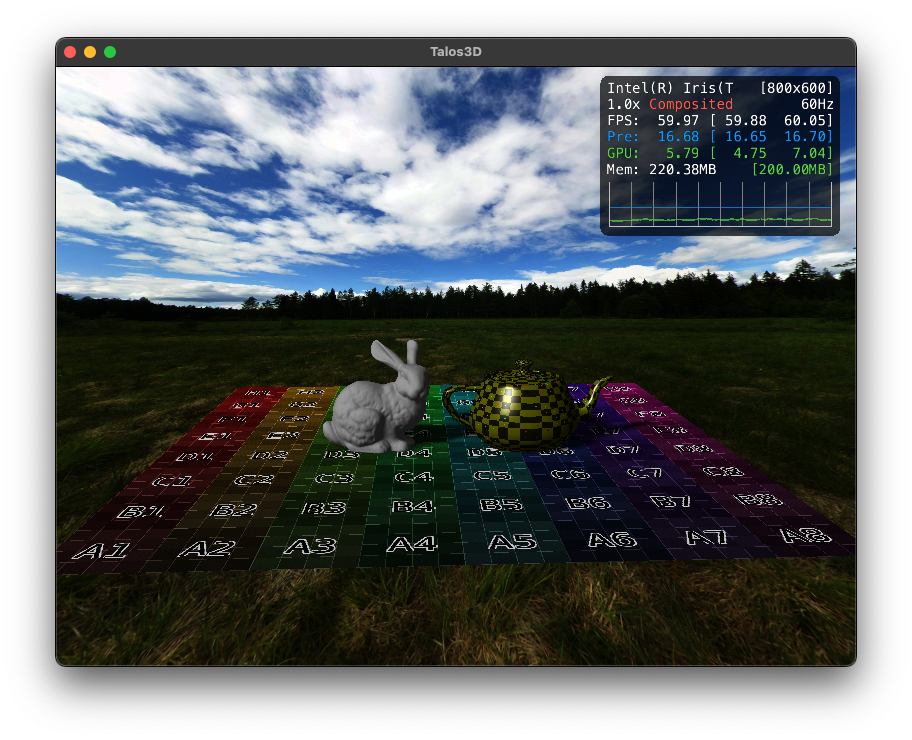
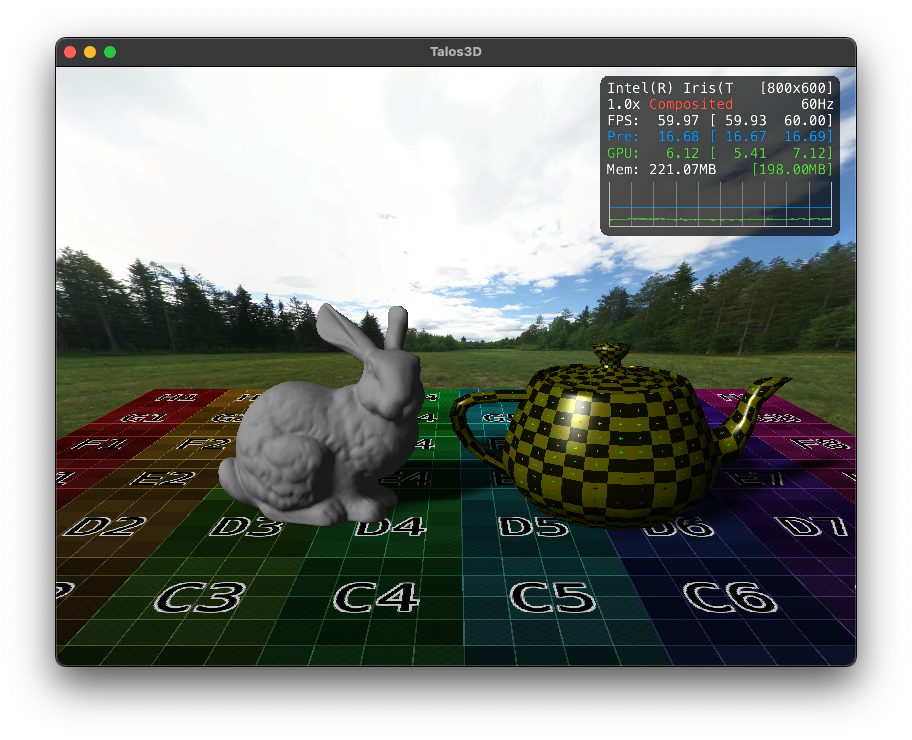
Update README and current state capture

diff --git a/README.md b/README.md
@@ -7,21 +7,22 @@ A Metal toy engine written on Swift with the intention of learning Metal and imp
 
 ## Planned "stepping-stone" features
 - [x] Importing of .obj files
-- [ ] Blinn-Phong lighting model
+- [x] Blinn-Phong lighting model
 - [x] FPS camera
 - [x] Forward rendering
 - [x] Simple shadow maps
-- [ ] Skybox
+- [x] Skybox
 
 ## Planned features
-- [ ] Bindless model
-- [ ] Importing of .fbx files
-- [ ] Simple GUI
-- [ ] Physically-Based Rendering
-- [ ] Sample Distribution Shadow Maps
 - [ ] Deferred rendering
+- [ ] Procedural skybox
 - [ ] SSAO
+- [ ] Physically-Based Rendering
+- [ ] Global Illumination
 - [ ] SSR
+- [ ] Bindless model
+- [ ] Simple GUI
+- [ ] Sample Distribution Shadow Maps
 - [ ] Post-processing effects (bloom, depth of field..)
 - [ ] Tile-Based Rendering / iOS version (?)
 - [ ] ???
